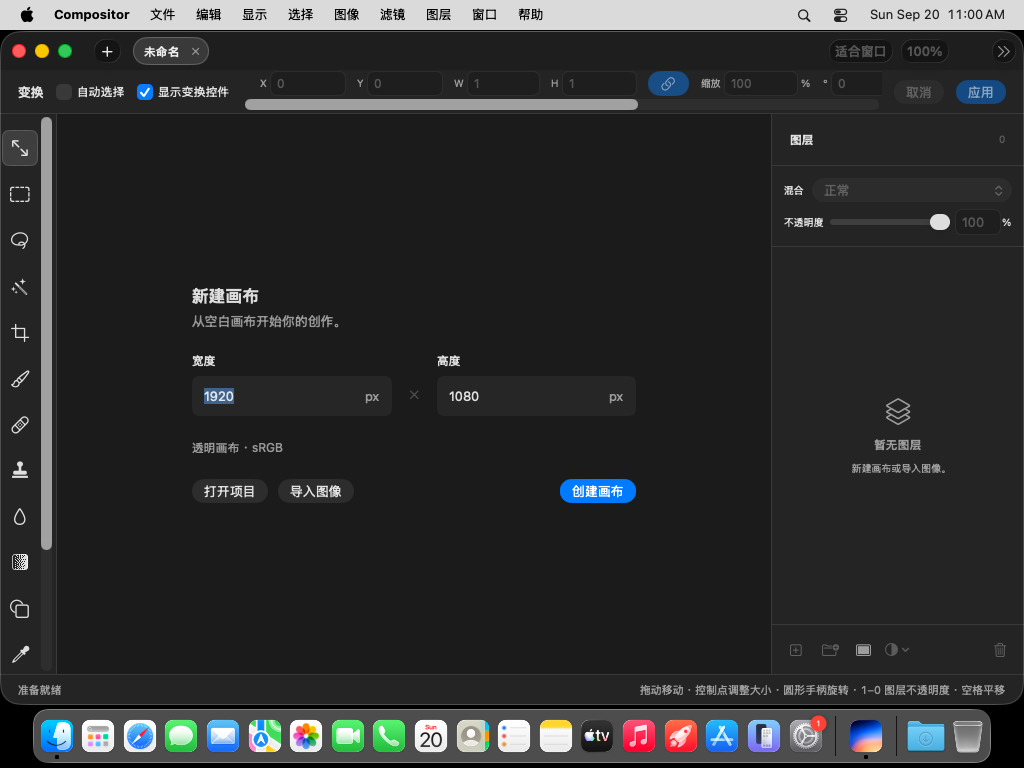
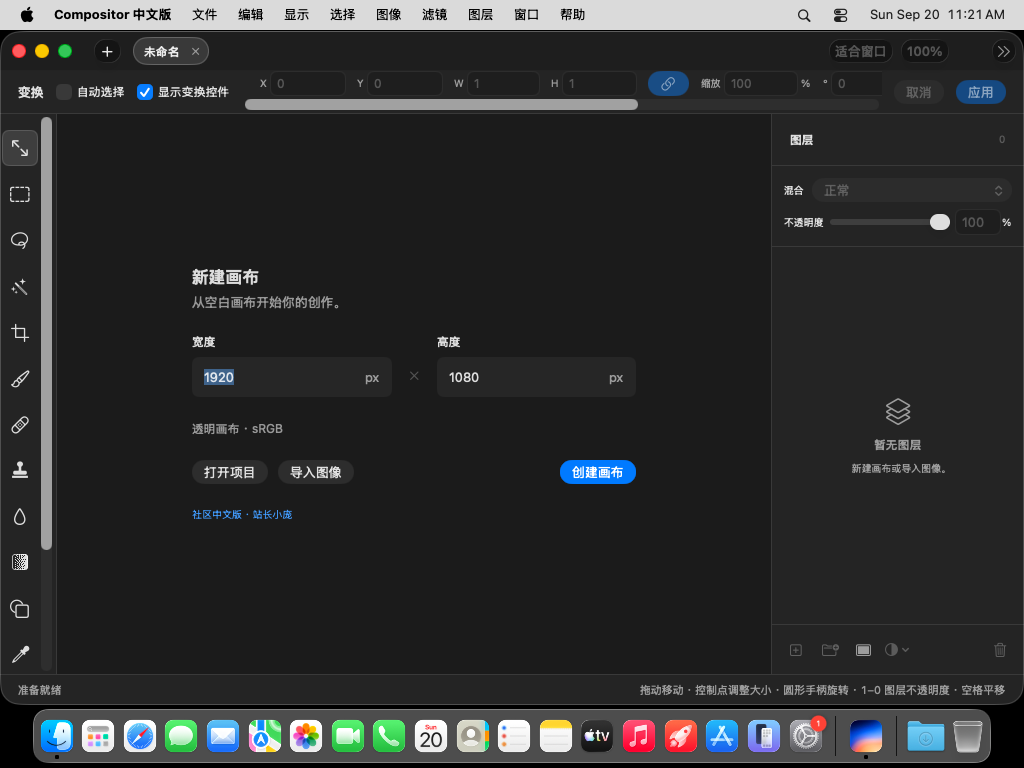
docs: publish community preview download and branding verification [skip ci]

diff --git a/docs/localization-validation.md b/docs/localization-validation.md
@@ -1,5 +1,22 @@
 # 简体中文验证记录
 
+## 社区体验版 v1.0.4-cn.1
+
+2026-09-20，发布源码 `a4ef1d071ebcc9de976e61bcf7740bc156ac44ec` 的 [GitHub 构建、测试与打包全部通过](https://github.com/JeyooZ/Compositor-CN/actions/runs/35507792906)。
+
+- Debug 和 Release 构建通过；英文、中文各 25 项定向测试通过。
+- 中文 UI 测试验证署名入口、关于窗口维护者及微信号、复制按钮成功状态、关闭窗口和创建画布。
+- 人工检查关于窗口、新建画布截图，文字和操作均可见，无明显截断；应用菜单栏显示“Compositor 中文版”。
+- ARM64 DMG 已下载到本机，SHA-256、hdiutil 完整性验证和 codesign 严格验证通过。核对应用标识、最低系统 26.5、Applications 入口及 MIT 许可证。
+- 本地 Finder 查看安装窗口，标题与维护者背景、应用及 Applications 入口均已设置。本机开启显示隐藏文件，会额外显示磁盘内部目录；macOS 15 上应用图标有不兼容标志，符合最低系统限制。
+- 安装包为临时签名、未 Apple 公证。未在本机 macOS 15 运行，也未宣称完成全部功能测试。原生 macOS 桌面应用不适用网页 360px/390px 和 DOM 检查。
+
+[下载此体验版](https://github.com/JeyooZ/Compositor-CN/releases/tag/v1.0.4-cn.1)
+
+![关于与联系方式](screenshots/zh-about.png)
+
+## 首轮汉化验证
+
 2026-09-20，源码提交 `705ca88` 的 [CI 验证通过](https://github.com/JeyooZ/Compositor-CN/actions/runs/35506437491)。
 
 - Debug 应用构建通过。

diff --git a/README.md b/README.md
@@ -6,7 +6,11 @@
 
 ## 当前进度
 
-已整合简体中文界面和英文回退，包含 562 条界面资源及 3 条文件类型名称。尚未发布签名、公证的中文安装包。
+已整合简体中文界面和英文回退，包含 573 条界面资源及 5 条应用和文件类型资源。支持 macOS 26.5 及以上的 Apple 芯片 Mac。
+
+[下载社区体验版](https://github.com/JeyooZ/Compositor-CN/releases/tag/v1.0.4-cn.1)。DMG 由 GitHub Actions 构建，使用临时签名，尚未经过 Apple 公证；首次安装可能受到系统拦截。此版本不支持 macOS 15 或 Intel Mac。
+
+![关于与联系方式](docs/screenshots/zh-about.png)
 
 以 Chuangqi Li 的 [PR #29](https://github.com/robbietilton/Compositor/pull/29) 为基础，保留原作者提交署名；参考 Penny777btc 的 [PR #21](https://github.com/robbietilton/Compositor/pull/21) 整理工具提示逻辑，并补充 Finder 文件类型翻译。
 
